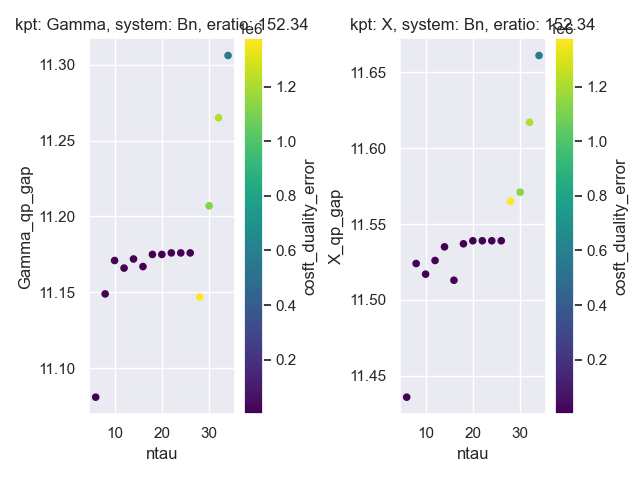
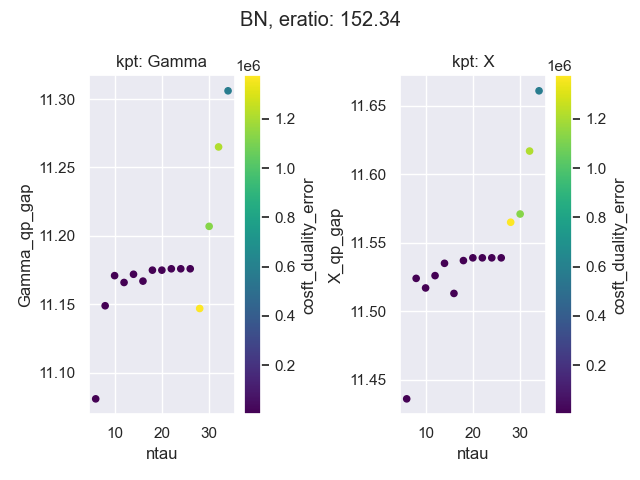
Regenerate figures

diff --git a/gap_vs_ntau.py b/gap_vs_ntau.py
@@ -63,7 +63,7 @@ def gwr_gaps_vs_ntau(filepath: str):
 
     df = pd.DataFrame(dict_list)
     eratio = df["eratio"][0]
-    label = f"system: {system}, eratio: {eratio:.2f}"
+    label = f"{system}, eratio: {eratio:.2f}"
     return df, label
 
 
@@ -135,7 +135,7 @@ def rpa_vs_ntau(filepath: str):
 
     df = pd.DataFrame(dict_list)
     eratio = df["eratio"][0]
-    label = f"system: {system}, eratio: {eratio:.2f}"
+    label = f"{system}, eratio: {eratio:.2f}"
 
     print(df[["ntau", "rpa_ec_ev",] +
              [k for k in df if "_err" in k]
@@ -156,8 +156,9 @@ if __name__ == "__main__":
     all_dirs = [p for p in os.listdir(".") if p.endswith("_888")]
 
     task = "GWR_ntau"
-    task = "RPA_ntau"
+    #task = "RPA_ntau"
     df_list, info_list = [], []
+    print("Executing task", task)
 
     if task ==  "RPA_ntau":
         for d in all_dirs:
@@ -187,25 +188,41 @@ if __name__ == "__main__":
             df_list.append(gwr_df)
             info_list.append(gwr_info)
             system = gwr_df["system"][0]
+            eratio = gwr_df["eratio"][0]
+            label = f"{system}, eratio: {eratio:.2f}"
             #gwr_df.to_excel(os.path.join("DATA_GWR", f"{system}.xlsx")
 
-    sys.exit(0)
-    ncols = 2
-    ax_mat, fig, plt = get_axarray_fig_plt(None, nrows=len(df_list), ncols=ncols,
-                                           sharex=True, sharey=False, squeeze=False)
+            ax_mat, fig, plt = get_axarray_fig_plt(None, nrows=1, ncols=2, sharex=True, sharey=False, squeeze=False)
+            for irow, y in enumerate(("Gamma_qp_gap", "X_qp_gap")):
+                ax = ax_mat[0, irow]
+                kpt = y.split("_")[0]
+                gwr_df.plot.scatter(x='ntau', y=y, c="cosft_duality_error",
+                                   colormap='viridis', title=f"kpt: {kpt}", ax=ax)
 
-    for irow, (df, info) in enumerate(zip(df_list, info_list)):
-        for icol, y in enumerate(("Gamma_qp_gap", "X_qp_gap")):
-            kpt = y.split("_")[0]
-            if icol > 0 and ncols > 1: continue
-            ax = ax_mat[irow, icol]
-            #df.plot.scatter(x='ntau', y=y, c="cosft_duality_error", colormap='viridis', label=f"{info}", ax=ax)
-            df.plot.scatter(x='ntau', y=y, colormap='viridis', label=f"{info}", ax=ax)
-            ax.set_xlabel("ntau", fontsize=fontsize)
-            ax.set_ylabel("", fontsize=fontsize)
-            #set_visible(ax, False, "xlabel")
+            fig.suptitle(label)
+            plt.tight_layout()
+            fig.savefig(os.path.join("DATA_GWR", f"{system}.png"))
+            #plt.show()
+            #sns.lineplot(x="ntau", y="Gamma_qp_gap", data=df)
+
+
+    #sys.exit(0)
+    #ncols = 2
+    #ax_mat, fig, plt = get_axarray_fig_plt(None, nrows=len(df_list), ncols=ncols,
+    #                                       sharex=True, sharey=False, squeeze=False)
+
+    #for irow, (df, info) in enumerate(zip(df_list, info_list)):
+    #    for icol, y in enumerate(("Gamma_qp_gap", "X_qp_gap")):
+    #        kpt = y.split("_")[0]
+    #        if icol > 0 and ncols > 1: continue
+    #        ax = ax_mat[irow, icol]
+    #        #df.plot.scatter(x='ntau', y=y, c="cosft_duality_error", colormap='viridis', label=f"{info}", ax=ax)
+    #        df.plot.scatter(x='ntau', y=y, colormap='viridis', label=f"{info}", ax=ax)
+    #        ax.set_xlabel("ntau", fontsize=fontsize)
+    #        ax.set_ylabel("", fontsize=fontsize)
+    #        #set_visible(ax, False, "xlabel")
 
     #df = pd.concat(df_list)
     #sns.lineplot(x="ntau", y="Gamma_qp_gap", data=df, hue="system")
-    plt.show()
+    #plt.show()
 
